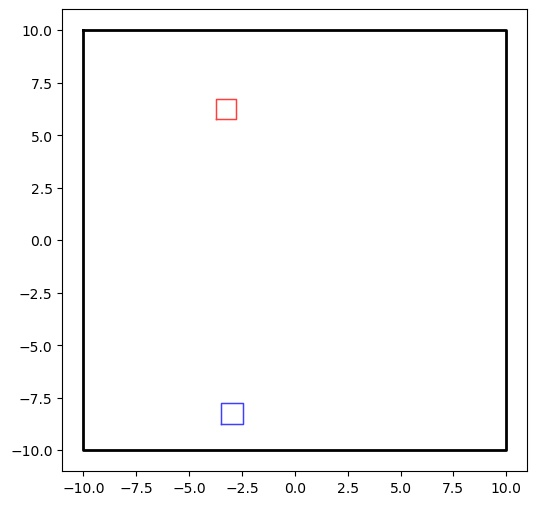
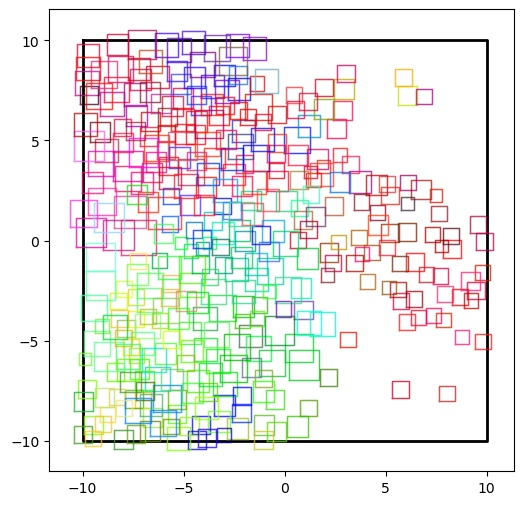
actualizado

diff --git a/main.py b/main.py
@@ -18,9 +18,10 @@ if __name__ == "__main__":
 
     jardin = Jardin(radio=10)  # Creo el jardin
     jardin.intenta_plantar(Planta(pos=np.array([-3.254, 6.25]), color=np.array([1.0, 0.0, 0.0]), radio_exclusion=0.48, radio_alcance=1.39))
-    jardin.intenta_plantar(Planta(pos=np.array([-3.3, 6]), color=np.array([0.0, 1.0, 0.0]), radio_exclusion=0.60, radio_alcance=1.16))
+    jardin.intenta_plantar(Planta(pos=np.array([-3.3, -6]), color=np.array([0.0, 1.0, 0.0]), radio_exclusion=0.60, radio_alcance=1.16))
     jardin.intenta_plantar(Planta(pos=np.array([-2.98, -8.25]), color=np.array([0.0, 0.0, 1.0]), radio_exclusion=0.52, radio_alcance=1.28))
-    jardin.crecimiento_total(0)  
+    jardin.intenta_plantar(Planta(pos=np.array([-2.98, 8.25]), color=np.array([0.0, 0.0, 1.0]), radio_exclusion=0.52, radio_alcance=1.28))
+    jardin.crecimiento_total()  
 
     jardin.mapa_aereo("hola.jpg")
 
